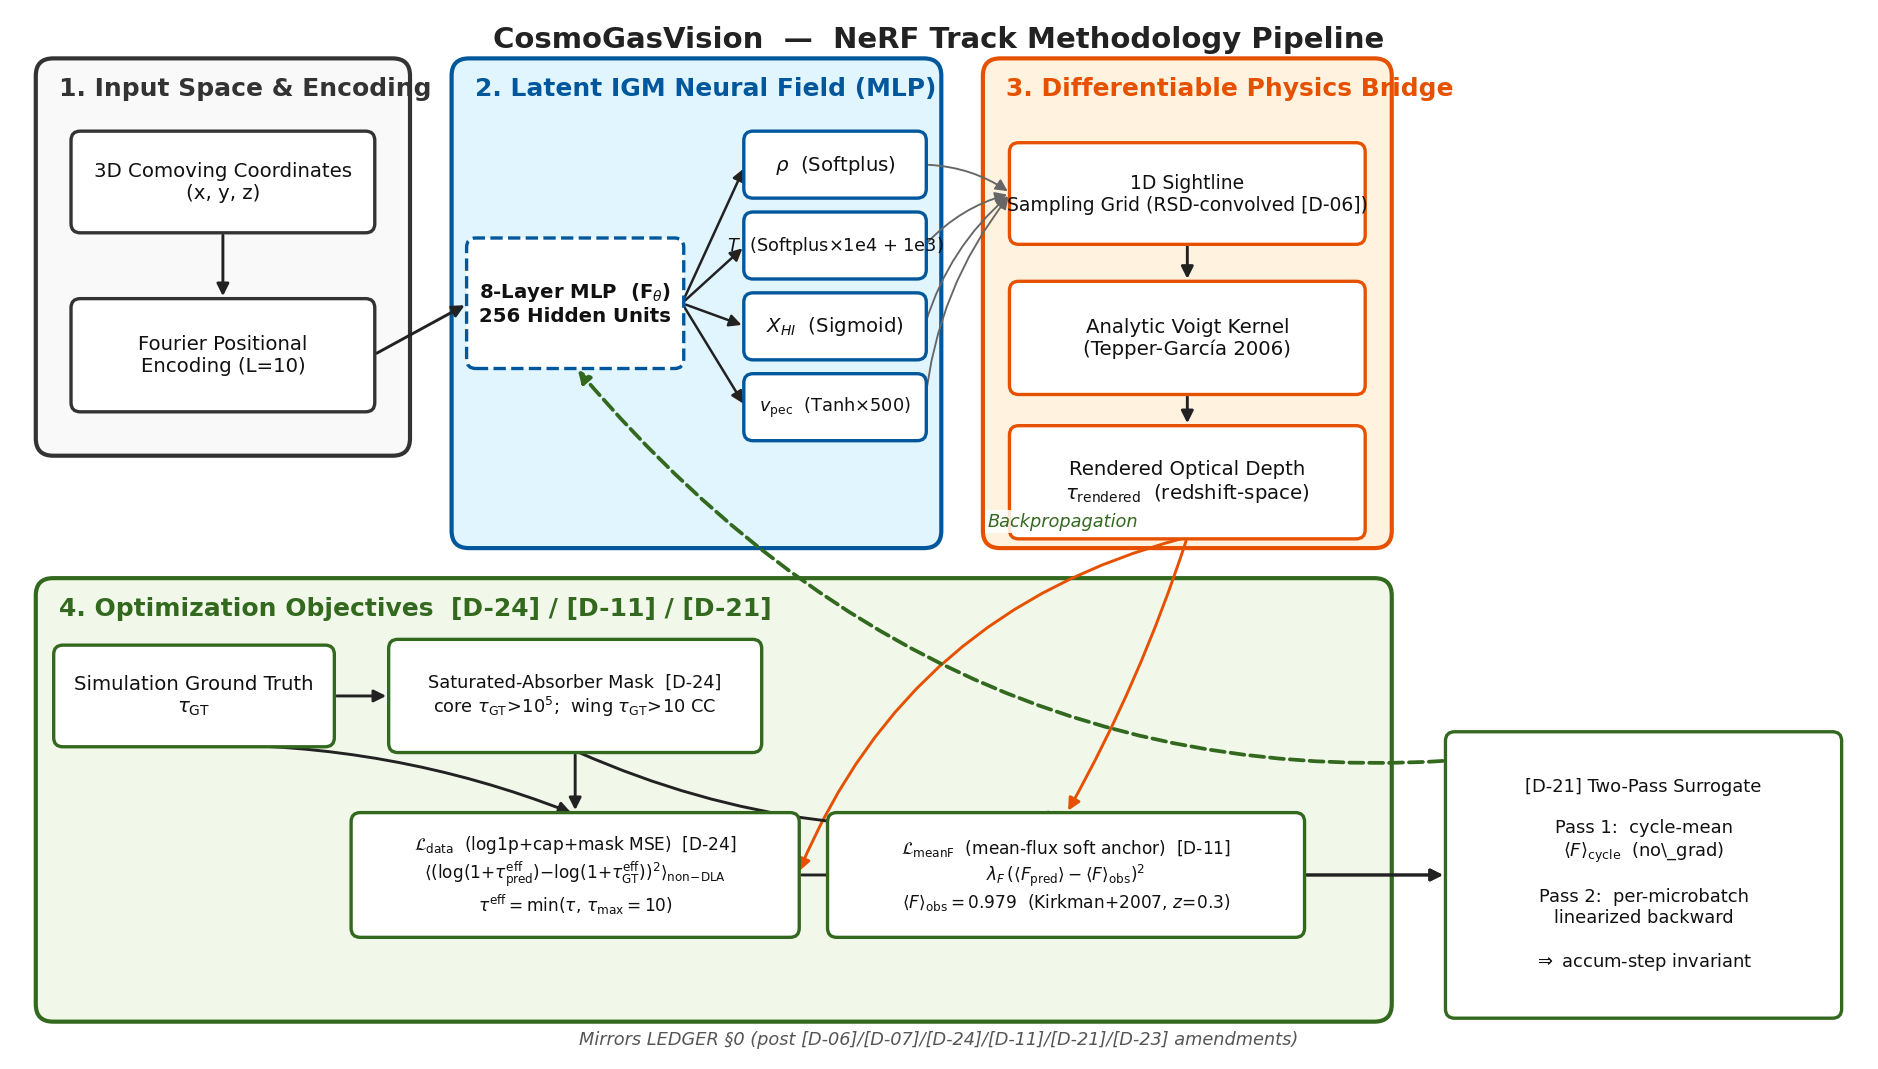
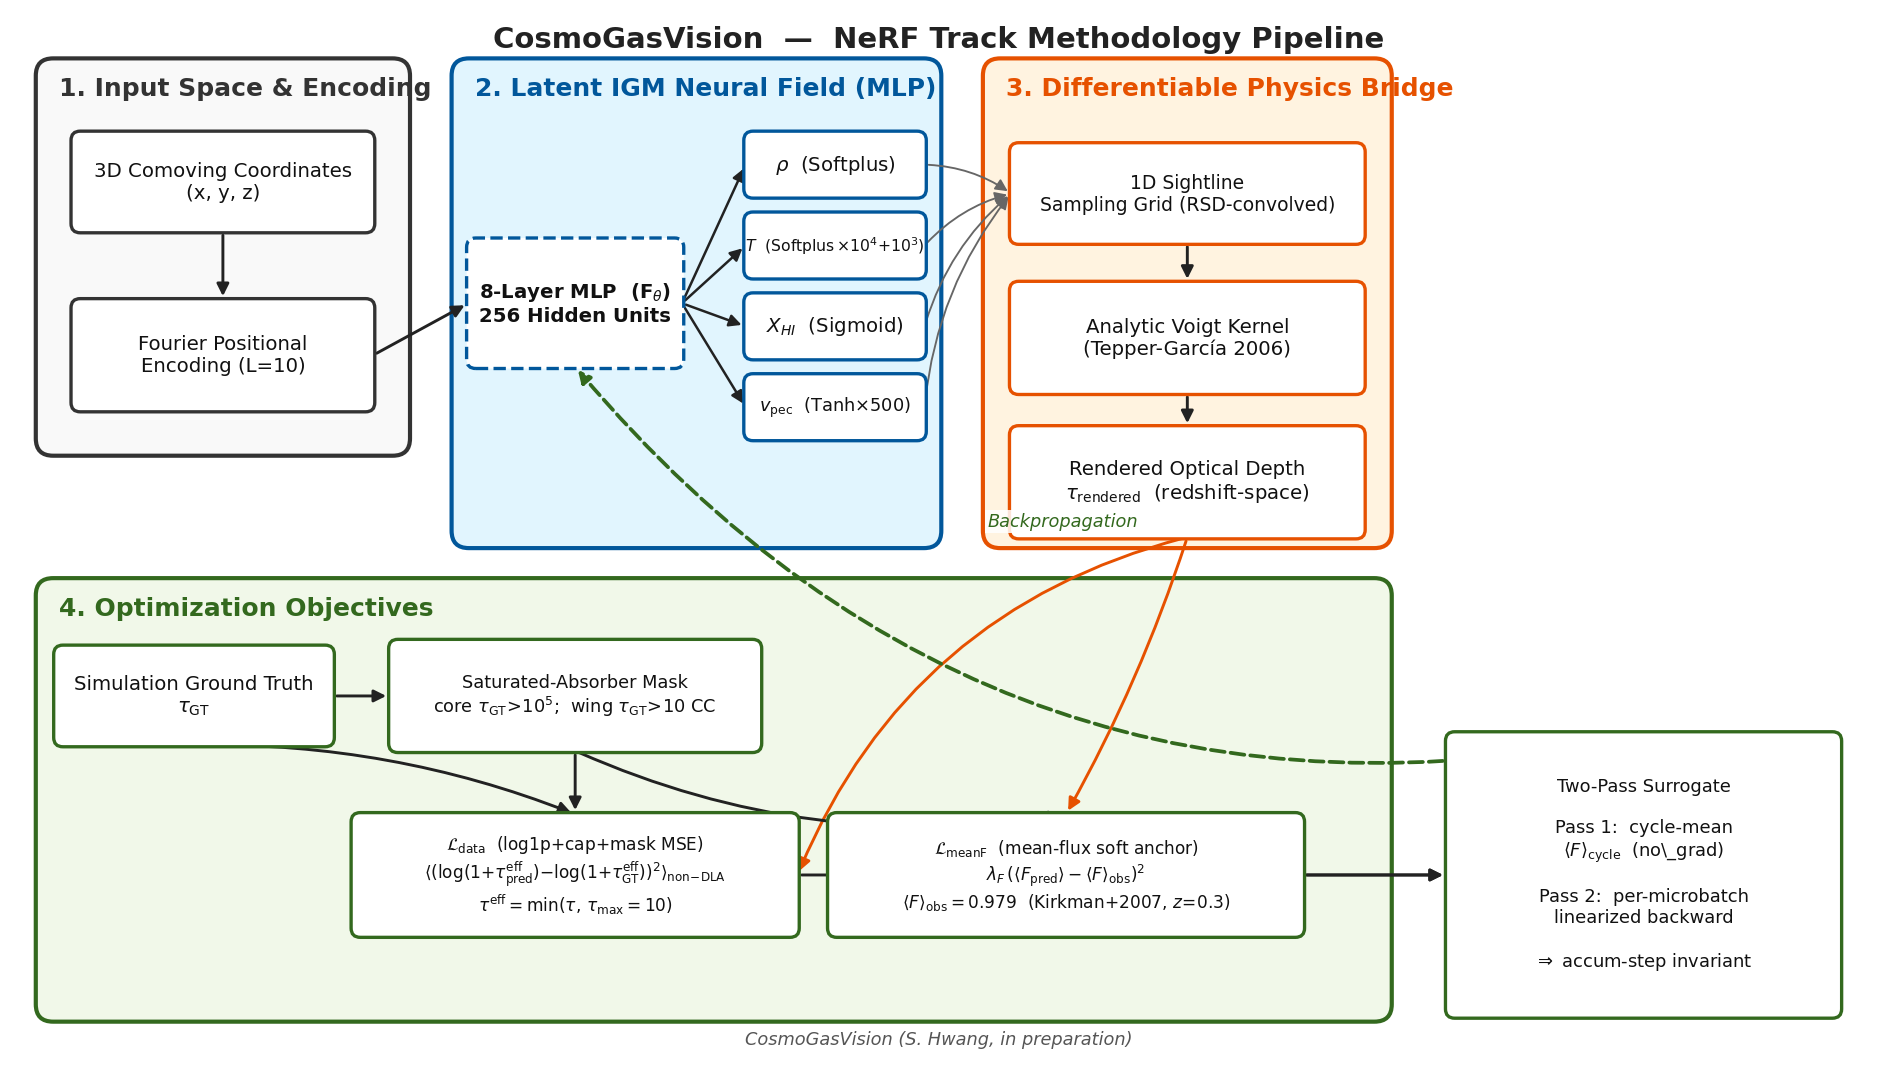
chore(external-hygiene): scrub internal [D-XX]/LEDGER identifiers from paper prose + figures + add guardrails
User directive 2026-07-11: internal LEDGER decision-log identifiers were leaking
onto external-facing surfaces (the paper a reviewer reads, and the selements
website). Fixed the instances and the root cause.

Scrubbed (external-facing):
- Paper prose: 9 [D-XX] tags removed from compiled atoms (abstract, method,
  experiments, next-steps) + 2 raw "Juno job 221335" HPC IDs. Tags translated to
  descriptive prose ("the log-space loss", "the third gate", "the 10% gate").
- Figures: make_method_pipeline_fig.py (7 rendered [D-XX] labels + "Mirrors
  LEDGER" footer) and d73_make_closeout_figures.py (K2 title [D-24], xi
  annotation [D-13]) de-internalized; all three paper figures regenerated clean.
- Also fixed the temperature node overflowing its box (1e4+1e3 -> 10^4+10^3,
  fontsize 8.5->7.5).

Root cause (guardrails, so it does not recur):
- .claude/agents/latex-author.md: added binding "no internal identifiers in
  external prose" rule; ALSO fixed the agent's own worked-example caption which
  used [D-13] and seeded the pattern.
- .claude/agents/support-researcher.md: added publication-figure hygiene rule
  (no [D-XX]/LEDGER on figure ART; publication variant required).
- .claude/skills/data-export/SKILL.md: added internal-identifier scrub gate +
  anti-pattern (verify the figure ART, not just the filename).

Still owed (flagged, needs descriptive substitution, not blind deletion):
pub-t1 (9x) and cost-survey (9x) run/phase codenames remain in the atoms.
[…]

diff --git a/scripts/make_method_pipeline_fig.py b/scripts/make_method_pipeline_fig.py
@@ -139,8 +139,8 @@ def build():
     rho = add_node(ax, 7.10, 7.70, 1.55, 0.55,
                    r"$\rho$  (Softplus)", "neural")
     temp = add_node(ax, 7.10, 7.00, 1.55, 0.55,
-                    r"$T$  (Softplus$\times$1e4 + 1e3)",
-                    "neural", fontsize=8.5)
+                    r"$T$  (Softplus$\,{\times}10^{4}{+}10^{3}$)",
+                    "neural", fontsize=7.5)
     xhi = add_node(ax, 7.10, 6.30, 1.55, 0.55,
                    r"$X_{HI}$  (Sigmoid)", "neural")
     vpec = add_node(ax, 7.10, 5.60, 1.55, 0.55,
@@ -158,7 +158,7 @@ def build():
                  "3. Differentiable Physics Bridge", "physics")
     sightlines = add_node(
         ax, 10.15, 7.45, 3.05, 0.85,
-        "1D Sightline\nSampling Grid (RSD-convolved [D-06])",
+        "1D Sightline\nSampling Grid (RSD-convolved)",
         "physics", fontsize=9,
     )
     voigt = add_node(
@@ -183,7 +183,7 @@ def build():
 
     # ===== Subgraph 4: Optimization Objectives =============================
     add_subgraph(ax, 0.20, 0.30, 11.70, 3.80,
-                 "4. Optimization Objectives  [D-24] / [D-11] / [D-21]",
+                 "4. Optimization Objectives",
                  "supvis")
 
     # ground truth on the left
@@ -195,7 +195,7 @@ def build():
     # mask
     mask = add_node(
         ax, 4.85, 3.10, 3.20, 0.95,
-        "Saturated-Absorber Mask  [D-24]\n"
+        "Saturated-Absorber Mask\n"
         r"core $\tau_{\rm GT}\!>\!10^{5}$;  wing $\tau_{\rm GT}\!>\!10$ CC",
         "supvis", fontsize=8.5,
     )
@@ -204,7 +204,7 @@ def build():
     # L_data
     l_data = add_node(
         ax, 4.85, 1.55, 3.85, 1.05,
-        r"$\mathcal{L}_{\rm data}$  (log1p+cap+mask MSE)  [D-24]"
+        r"$\mathcal{L}_{\rm data}$  (log1p+cap+mask MSE)"
         "\n"
         r"$\langle (\log(1{+}\tau^{\rm eff}_{\rm pred}){-}\log(1{+}\tau^{\rm eff}_{\rm GT}))^{2}\rangle_{\rm non\!-\!DLA}$"
         "\n"
@@ -214,7 +214,7 @@ def build():
     # L_meanF
     l_meanf = add_node(
         ax, 9.10, 1.55, 4.10, 1.05,
-        r"$\mathcal{L}_{\rm meanF}$  (mean-flux soft anchor)  [D-11]"
+        r"$\mathcal{L}_{\rm meanF}$  (mean-flux soft anchor)"
         "\n"
         r"$\lambda_{F}\,(\langle F_{\rm pred}\rangle - \langle F\rangle_{\rm obs})^{2}$"
         "\n"
@@ -234,7 +234,7 @@ def build():
     # Two-pass surrogate
     twopass = add_node(
         ax, 14.10, 1.55, 3.40, 2.45,
-        "[D-21] Two-Pass Surrogate\n\n"
+        "Two-Pass Surrogate\n\n"
         "Pass 1:  cycle-mean\n"
         r"$\langle F\rangle_{\rm cycle}$  (no\_grad)"
         "\n\n"
@@ -265,7 +265,7 @@ def build():
     )
     ax.text(
         8.0, 0.05,
-        "Mirrors LEDGER §0 (post [D-06]/[D-07]/[D-24]/[D-11]/[D-21]/[D-23] amendments)",
+        "CosmoGasVision (S. Hwang, in preparation)",
         ha="center", va="bottom", fontsize=8.5,
         color="#555555", style="italic",
     )

diff --git a/papers/shared/sec/3_experiments_main.tex b/papers/shared/sec/3_experiments_main.tex
@@ -21,7 +21,7 @@ The Stage 2b cost-survey sweep ran the per-tier schedule across all four variant
 \label{sec:experiments:headline}
 Tab.~\ref{tab:headline-3gate} consolidates the structure-gate readout for the production MLP across the four Sherwood feedback variants at the corrected-anchor full publication schedule (\texttt{pub-t1}). Two of the three directly-evaluated gates fail. $P_F$ fails $4/4$ at $\PFfactorOverGateLo$--$\PFfactorOverGateHi\times$ the gate; the flux-PDF KS gate closes $3/4$ (bootstrap-robust; $P_2$ q84 $=\KSBootstrapQHiPtwo$ fails). Mean-flux closes $4/4$ at the seed=42 single-seed anchor, but the 5-seed sightline-level bootstrap CI overlaps the Kirkman+2007 anchor $[\AnchorMeanFLo, \AnchorMeanFHi]$ in only $2/4$ cells ($P_3$, $P_4$ marginal at q84). Training is single-seed (seed $=0$); KS and $\langle F_{\rm pred}\rangle$ carry 5-seed sightline-level bootstrap CIs ($K=\BootstrapK$ resamples per cell, prediction and truth-side seeds from independent PCG64 streams; anti-degeneracy audit PASS, suppl.), and $P_F$ is the seed=42 anchor.
 
-\textbf{Honest gap: the 3D $\xi$ gate was never evaluated on the MLP.} The third [D-13] gate, the 3D density cross-correlation, is a 3D estimator. The MLP is supervised on 1D flux and produces no 3D density cube, so it has no $\xi$-of-record in the gate's defined form; the value shown in Tab.~\ref{tab:headline-3gate} is a 1D-along-ray density-correlation surrogate, measured on the cost-survey $P_1$ checkpoint and anchor-invariant by construction. The surrogate decouples from the 3D estimator under scale-dependent degradation, so we do not read it as the gate. The MLP therefore \emph{fails two of three directly-evaluated gates}; the third was never evaluated on the MLP. The 3D structure result the project can report comes from the explicit-grid probe of \S\ref{sec:experiments:gridprobe}, which produces a 3D cube.
+\textbf{Honest gap: the 3D $\xi$ gate was never evaluated on the MLP.} The third gate, the 3D density cross-correlation, is a 3D estimator. The MLP is supervised on 1D flux and produces no 3D density cube, so it has no $\xi$-of-record in the gate's defined form; the value shown in Tab.~\ref{tab:headline-3gate} is a 1D-along-ray density-correlation surrogate, measured on the cost-survey $P_1$ checkpoint and anchor-invariant by construction. The surrogate decouples from the 3D estimator under scale-dependent degradation, so we do not read it as the gate. The MLP therefore \emph{fails two of three directly-evaluated gates}; the third was never evaluated on the MLP. The 3D structure result the project can report comes from the explicit-grid probe of \S\ref{sec:experiments:gridprobe}, which produces a 3D cube.
 
 \textbf{Bootstrap-vs-seed=42 mean-flux divergence (symmetric-honesty disclosure).} The 5-seed bootstrap mean for $\langle F_{\rm pred}\rangle$ lies systematically below the seed=42 anchor by $\meanFseedDeviationRangeLo$--$\meanFseedDeviationRangeHi\sigma$ across all four cells (KS is not similarly biased; per-cell $\sigma$ in suppl.); we disclose this because the bootstrap softens rather than strengthens the single-seed reading, as our pre-registered honest-reporting protocol requires.
 
@@ -54,20 +54,20 @@ The structural-$P_F$ verdict states \emph{that} the gap is in second-order spect
 
 \subsection{Explicit-grid probe: the flux inverse problem is under-constrained}
 \label{sec:experiments:gridprobe}
-The MLP diagnosis of \S\ref{sec:experiments:cosmological-eval}--\S\ref{sec:experiments:tau-binned} localizes the residual but leaves one question open: is the saturation-band deficit a capacity limit of the implicit field, or a property of the inverse problem? We answer with the explicit-voxel-grid probe of \S\ref{sec:method:gridprobe} --- four free-per-voxel grids at $\GridG^3$, plain [D-24] flux supervision, one lever, at $P_1$, $z = 0.3$, $n_{\text{rays}} = 1024$ (Juno job 221335, $50{,}000$ steps).
+The MLP diagnosis of \S\ref{sec:experiments:cosmological-eval}--\S\ref{sec:experiments:tau-binned} localizes the residual but leaves one question open: is the saturation-band deficit a capacity limit of the implicit field, or a property of the inverse problem? We answer with the explicit-voxel-grid probe of \S\ref{sec:method:gridprobe} --- four free-per-voxel grids at $\GridG^3$, plain flux supervision, one lever, at $P_1$, $z = 0.3$, $n_{\text{rays}} = 1024$ ($50{,}000$ steps).
 
 \textbf{Trainability: the grid escapes the optimization collapse.} The grid's predicted-flux-power-band variance is $\VarPfBandRatio$, flat from step $5{,}000$ to $50{,}000$ --- about $1000\times$ over the collapse bar that retired the interventions of \S\ref{sec:nextsteps:pf}. The grid trains. Its variance sits at the same $\approx\!1.0$ level as the healthy MLP run, so it lands in the same saturation-band partial-underfit basin (Mode A) at the most-expressive parameterization; this is the representation-invariance of that basin landing, scoped to $P_F$.
 
-\textbf{Decisive evidence (K2): the grid beats the truth on flux.} We forward-model the \emph{true} sightline fields ($\rho, T, X_{HI}, v_{\text{pec}}$ at the ray points) through the same integrator under the exact [D-24] loss --- RSD applied identically, amplitude $\tau_{\text{amp}}$ free --- and minimize over $\tau_{\text{amp}}$. The true field scores data loss $\KTwoTruthLoss$; the grid scores $\KTwoGridLoss$, about $\KTwoMarginFactor\times$ better. The grid fits the observed flux better than the true field does through the same forward model. The margin is amplitude-flat (the true-field loss is flat over $\tau_{\text{amp}} \in [0.2, 4]$), which rules out the amplitude-calibration escape; the non-trivial content is the $\KTwoMarginFactor\times$ margin and that flatness, not the bare $\text{grid} < \text{truth}$ inequality. The margin includes integrator-induced slack: the $\KTwoTruthLoss$ floor is our FGPA-vs-radiative-transfer integrator error, not a physical residual, and the grid can exploit slack the truth cannot. The reading is that the flux through this forward model does not identify the true 3D field --- the $z = 0.3$ flux inverse problem is under-constrained. We do not separate problem-intrinsic from forward-model-induced under-determination at $\langle F\rangle = \MeanFluxZpThree$ (Fig.~\ref{fig:k2-degeneracy}).
+\textbf{Decisive evidence (K2): the grid beats the truth on flux.} We forward-model the \emph{true} sightline fields ($\rho, T, X_{HI}, v_{\text{pec}}$ at the ray points) through the same integrator under the same log-space loss --- RSD applied identically, amplitude $\tau_{\text{amp}}$ free --- and minimize over $\tau_{\text{amp}}$. The true field scores data loss $\KTwoTruthLoss$; the grid scores $\KTwoGridLoss$, about $\KTwoMarginFactor\times$ better. The grid fits the observed flux better than the true field does through the same forward model. The margin is amplitude-flat (the true-field loss is flat over $\tau_{\text{amp}} \in [0.2, 4]$), which rules out the amplitude-calibration escape; the non-trivial content is the $\KTwoMarginFactor\times$ margin and that flatness, not the bare $\text{grid} < \text{truth}$ inequality. The margin includes integrator-induced slack: the $\KTwoTruthLoss$ floor is our FGPA-vs-radiative-transfer integrator error, not a physical residual, and the grid can exploit slack the truth cannot. The reading is that the flux through this forward model does not identify the true 3D field --- the $z = 0.3$ flux inverse problem is under-constrained. We do not separate problem-intrinsic from forward-model-induced under-determination at $\langle F\rangle = \MeanFluxZpThree$ (Fig.~\ref{fig:k2-degeneracy}).
 
 \begin{figure}[t]
     \centering
     \includegraphics[width=0.84\linewidth]{figures/d73_k2_truth_vs_grid.png}
-    \caption{\textbf{K2 degeneracy ($z{=}0.3$, $P_1$, $G{=}192$, plain-[D-24], Juno job 221335).} The true sightline fields forward-modeled through the same integrator (free $\tau_{\text{amp}}$) score flux data loss $\KTwoTruthLoss$, flat over $\tau_{\text{amp}}\in[0.2,4]$ (shaded); the trained grid scores $\KTwoGridLoss$ (dashed), about $\KTwoMarginFactor\times$ lower. \emph{Verdict:} the grid fits the flux better than the true field does, so the flux optimum does not identify the true 3D field --- the inverse problem is under-constrained under this forward model. The amplitude-flatness rules out a calibration escape.}
+    \caption{\textbf{K2 degeneracy ($z{=}0.3$, $P_1$, $G{=}192$, log-space flux loss).} The true sightline fields forward-modeled through the same integrator (free $\tau_{\text{amp}}$) score flux data loss $\KTwoTruthLoss$, flat over $\tau_{\text{amp}}\in[0.2,4]$ (shaded); the trained grid scores $\KTwoGridLoss$ (dashed), about $\KTwoMarginFactor\times$ lower. \emph{Verdict:} the grid fits the flux better than the true field does, so the flux optimum does not identify the true 3D field --- the inverse problem is under-constrained under this forward model. The amplitude-flatness rules out a calibration escape.}
     \label{fig:k2-degeneracy}
 \end{figure}
 
-\textbf{The grid closes the flux-power gate the MLP failed.} Measured directly on the trained grid (same \texttt{compute\_p\_flux} convention as the gate), the grid's $|\Delta P_F/P_F|$ band-mean over $k_\parallel \in [10^{-2.5}, 10^{-1.5}]$ s/km is $\PFresidGrid$ --- a \emph{PASS} of the $10\%$ [D-13] gate, against the production MLP's $\PFresidGridBaseline$ FAIL.\footnote{The MLP baseline is the $n_{\text{rays}}=64$ \texttt{pub-t1} anchor and the grid is $n_{\text{rays}}=1024$; same estimator convention and the same $10\%$ gate, so the PASS/FAIL verdicts are directly comparable, but the residual magnitudes are not a controlled same-config contrast.} So the explicit field does close the scalar flux-power statistic the implicit MLP could not --- yet, as the cross-correlation below shows, it does not recover the 3D field. This is the sharp form of the under-constraint: the grid passes \emph{both} flux gates (band variance and power spectrum) and beats truth on flux loss, while the 3D structure stays wrong.
+\textbf{The grid closes the flux-power gate the MLP failed.} Measured directly on the trained grid (same \texttt{compute\_p\_flux} convention as the gate), the grid's $|\Delta P_F/P_F|$ band-mean over $k_\parallel \in [10^{-2.5}, 10^{-1.5}]$ s/km is $\PFresidGrid$ --- a \emph{PASS} of the $10\%$ gate, against the production MLP's $\PFresidGridBaseline$ FAIL.\footnote{The MLP baseline is the $n_{\text{rays}}=64$ \texttt{pub-t1} anchor and the grid is $n_{\text{rays}}=1024$; same estimator convention and the same $10\%$ gate, so the PASS/FAIL verdicts are directly comparable, but the residual magnitudes are not a controlled same-config contrast.} So the explicit field does close the scalar flux-power statistic the implicit MLP could not --- yet, as the cross-correlation below shows, it does not recover the 3D field. This is the sharp form of the under-constraint: the grid passes \emph{both} flux gates (band variance and power spectrum) and beats truth on flux loss, while the 3D structure stays wrong.
 
 \textbf{Supporting evidence: weak 3D structure, ceiling-relative.} The grid's 3D density cross-correlation at $r = 2\,h^{-1}$ Mpc is $\XiGrid$. The $\GateXi$ acceptance bar is demoted on two grounds, both confirmed first-hand. First, the estimator returns a cross-correlation function that decays with $r$: truth-vs-truth scores $\XiCeiling$ at $r = 2\,h^{-1}$ Mpc, not $\approx\!1.0$, so no field can pass $\GateXi$ and the ``$\XiGrid$ vs.\ $\GateXi$'' reading is invalid. Read ceiling-relative, the grid recovers $\XiCeilingFraction$ of the field's own achievable $r = 2\,h^{-1}$ Mpc autocorrelation and sits below truth-plus-100\%-noise ($\XiTruthNoiseHundred$) --- weak structure recovery. Second, a real-space-cube-vs-redshift-space-flux frame mismatch confounds $\xi(r = 2)$: the estimator scores a real-space cube against real-space truth while supervision is redshift-space flux with no RSD remap, and at $z = 0.3$ the displacement is $\Delta\chi_{\text{rms}} = \FrameDeltaChiRms$, $\Delta\chi_{\text{p95}} = \FrameDeltaChiPNF\,h^{-1}$ Mpc, comparable to the $r = 2\,h^{-1}$ Mpc gate scale. The mismatch depresses $\xi(r = 2)$ independent of reconstruction quality, on both this neural number and the idealized Wiener baseline (lower bound $\WienerXiLowerBound$, optimum un-pinned). $\xi$ is therefore supporting, not load-bearing; K2 carries the close. A corrected per-lag coefficient is banked as future work (\S\ref{sec:nextsteps}). Fig.~\ref{fig:xi-ceiling} shows the $\xi(r)$ profiles ceiling-relative.
 
@@ -78,7 +78,7 @@ The MLP diagnosis of \S\ref{sec:experiments:cosmological-eval}--\S\ref{sec:exper
     \label{fig:xi-ceiling}
 \end{figure}
 
-\textbf{Reading.} At $z = 0.3$ ($P_1$), a maximal-capacity-within-this-study free-per-voxel field ($\GridG^3$), trained under the production flux supervision, closes the [D-13] flux-power gate the production MLP failed ($|\Delta P_F/P_F| = \PFresidGrid$ vs.\ $\PFresidGridBaseline$, PASS vs.\ FAIL) and fits the observed flux about $\KTwoMarginFactor\times$ better than the true field does through the same forward model ($\KTwoGridLoss$ vs.\ $\KTwoTruthLoss$), yet recovers only weak 3D structure. Escaping the optimization collapse is necessary but not sufficient: the flux through this integrator --- even when it passes the community flux-power gate --- does not determine the 3D field. We make no claim beyond $z = 0.3$.
+\textbf{Reading.} At $z = 0.3$ ($P_1$), a maximal-capacity-within-this-study free-per-voxel field ($\GridG^3$), trained under the production flux supervision, closes the flux-power gate the production MLP failed ($|\Delta P_F/P_F| = \PFresidGrid$ vs.\ $\PFresidGridBaseline$, PASS vs.\ FAIL) and fits the observed flux about $\KTwoMarginFactor\times$ better than the true field does through the same forward model ($\KTwoGridLoss$ vs.\ $\KTwoTruthLoss$), yet recovers only weak 3D structure. Escaping the optimization collapse is necessary but not sufficient: the flux through this integrator --- even when it passes the community flux-power gate --- does not determine the 3D field. We make no claim beyond $z = 0.3$.
 
 \subsection{Substrate-discriminability probe at the reconstruction scale}
 \label{sec:experiments:substrate-probe}

diff --git a/scripts/d73_make_closeout_figures.py b/scripts/d73_make_closeout_figures.py
@@ -87,7 +87,7 @@ ax.set_xlabel(r"$\tau_{\mathrm{amp}}$ (free amplitude)")
 ax.set_ylabel(r"flux data loss $\mathcal{L}_{\mathrm{data}}$")
 ax.set_ylim(0, max(curve.max() * 1.15, 0.013))
 ax.set_title(r"K2: the grid fits flux better than the true field"
-             "\n" r"($z{=}0.3$, $P_1$, $G{=}192$, plain-[D-24])", fontsize=9)
+             "\n" r"($z{=}0.3$, $P_1$, $G{=}192$, log-space flux loss)", fontsize=9)
 ax.legend(fontsize=8, loc="upper right")
 fig.tight_layout()
 fig.savefig(f"{FIGDIR}/d73_k2_truth_vs_grid.png", dpi=200)
@@ -128,7 +128,7 @@ ax.plot(GRID_R, GRID_XI, color="#d62728", lw=2, marker="s", ms=3,
 ax.scatter([2.0], [wiener_xi2], color="#9467bd", zorder=5, s=40, marker="D",
            label=rf"Wiener lower bound ($\geq{wiener_xi2:g}$)")
 ax.axhline(0.6, color="black", ls=":", lw=1.5)
-ax.text(5.0, 0.615, r"demoted [D-13] $0.6$ gate --- unreachable (even truth$\times$truth $=0.03$)",
+ax.text(5.0, 0.615, r"demoted $0.6$ gate --- unreachable (even truth$\times$truth $=0.03$)",
         fontsize=7.5, va="bottom", ha="center")
 ax.axvline(2.0, color="gray", ls=":", lw=0.8, alpha=0.6)
 ax.set_xlabel(r"$r$ [$h^{-1}$ Mpc]")

diff --git a/papers/shared/sec/0_abstract.tex b/papers/shared/sec/0_abstract.tex
@@ -1,7 +1,7 @@
 \begin{abstract}
 Reconstructing the 3D distribution of the intergalactic medium (IGM) from sparse 1D Lyman-alpha forest sightlines is a sparse-view tomography problem with a physically derived forward operator. Classical voxel-grid methods such as TARDIS~\cite{horowitz2019tardis} and Wiener filtering~\cite{stark2015tomography} succeed at $z \approx 2$--$3$, where the forest is information-rich. We study the low-redshift regime at $z = 0.3$, where the mean transmitted flux is $\langle F\rangle = \MeanFluxZpThree$ ($\approx 2\%$ absorption) and the per-pixel signal is sparse.
 
-We present \emph{CosmoGasVision}, a continuous neural field $F_\theta:\mathbf{x} \to (\rho, T, X_{HI}, v_{\text{pec}})$ optimized end-to-end against a differentiable Lyman-alpha optical-depth integrator. The integrator implements the Tepper-Garc\'ia~\cite{tepper2006voigt} analytic Voigt-Hjerting kernel with full redshift-space-distortion (RSD) convolution and a learnable amplitude, and supervises the field on 1D flux through the [D-24] log-space loss with a mean-flux anchor at $\langle F\rangle_{\text{obs}}(z=0.3) = \AnchorMeanF$~\cite{kirkman2007}.
+We present \emph{CosmoGasVision}, a continuous neural field $F_\theta:\mathbf{x} \to (\rho, T, X_{HI}, v_{\text{pec}})$ optimized end-to-end against a differentiable Lyman-alpha optical-depth integrator. The integrator implements the Tepper-Garc\'ia~\cite{tepper2006voigt} analytic Voigt-Hjerting kernel with full redshift-space-distortion (RSD) convolution and a learnable amplitude, and supervises the field on 1D flux through the log-space loss with a mean-flux anchor at $\langle F\rangle_{\text{obs}}(z=0.3) = \AnchorMeanF$~\cite{kirkman2007}.
 
 The contribution is a characterization of the optimization and identifiability wall this method class hits at $z = 0.3$. The decisive evidence is an explicit-voxel-grid probe: a maximal-capacity-within-this-study free-per-voxel field ($\GridG^3$), trained under the same flux supervision through the same forward model, closes the flux-power gate the production MLP failed ($|\Delta P_F/P_F| = \PFresidGrid$ vs.\ $\PFresidGridBaseline$) and fits the observed flux about $\KTwoMarginFactor\times$ better than the \emph{true} field does (data loss $\KTwoGridLoss$ vs.\ $\KTwoTruthLoss$, free amplitude on both), yet recovers only weak 3D structure. The grid trains --- its predicted-flux-power-band variance is $\VarPfBandRatio$, flat over training --- so it escapes the optimization collapse that retired earlier interventions, but its density cross-correlation at $r = 2\,h^{-1}$ Mpc reaches only $\XiCeilingFraction$ of the field's own achievable ceiling. The reading is that the $z = 0.3$ flux inverse problem, under this forward model, is under-constrained: escaping the optimization collapse is necessary but not sufficient, because the flux through this integrator does not determine the 3D field. We do not separate problem-intrinsic from forward-model-induced under-determination, and we make no claim beyond $z = 0.3$. The contributions are (i) a continuous-neural-field formulation of Ly$\alpha$ tomography coupled to a differentiable Voigt integrator; (ii) a falsification-disciplined methodology of pre-committed gates and degeneracy-aware counterfactuals, demonstrated across $\NumInterventions$ retired interventions; and (iii) the explicit-grid degeneracy measurement that localizes and bounds the failure mode at this regime.
 \end{abstract}

diff --git a/papers/shared/sec/2_method_main.tex b/papers/shared/sec/2_method_main.tex
@@ -25,7 +25,7 @@ where $x_{\text{src,obs}} = (v_{\text{obs}} - v_{\text{src}} - v_{\text{pec},\te
 \begin{equation}
 H(a, x) \approx e^{-x^2} - \frac{a}{\sqrt{\pi} x^2} \big[ e^{-2x^2} (4x^4 + 7x^2 + 4 + 1.5x^{-2}) - 1.5x^{-2} - 1 \big]
 \end{equation}
-allowing loss gradients to propagate back through the damping wings to the MLP parameters $\theta$. The integrator was audited end-to-end after a factor-12.9 damping-coefficient fix ([D-57]); the explicit-grid probe of \S\ref{sec:method:gridprobe} is supervised through the same forward model.
+allowing loss gradients to propagate back through the damping wings to the MLP parameters $\theta$. The integrator was audited end-to-end after a factor-12.9 damping-coefficient fix; the explicit-grid probe of \S\ref{sec:method:gridprobe} is supervised through the same forward model.
 
 \subsection{Lyman-alpha Forest Loss: Saturated-Absorber Mask, Cap, and Log-Space Supervision}
 \label{sec:method:loss}

diff --git a/papers/shared/sec/4_next_steps_main.tex b/papers/shared/sec/4_next_steps_main.tex
@@ -43,4 +43,4 @@ The four interventions on loss, regularizer, architecture-input, and conditionin
 
 \subsection{Scope and what we do not open}
 \label{sec:nextsteps:scope}
-The result is scoped to the Sherwood Suite at $z = 0.3$, $P_1$. We do not claim neural IGM tomography is impossible: at $z \approx 2$--$3$ the forest is information-rich and CLAMATO~\cite{lee2018clamato} and TARDIS~\cite{horowitz2019tardis} reconstruct 3D density from sparse skewers. The claim is narrower --- at $z = 0.3$, this method class hits a characterized under-constraint wall, and the wall's location is explained by the information content of the low-$z$ forest, not by a deficiency of the architecture. A scaling build-out (higher resolution, multi-physics) is not warranted, because the explicit-grid probe shows the bottleneck is information content, not capacity. We considered adopting a different autodiff engine (JAX) for such a build-out; with no build-out opened, the migration is not adopted ([D-74]). A scoped diagnostic spike --- porting the forward model plus one Hessian/Fisher diagnostic to harden the under-determination claim --- remains an option if elected, but is not committed and not in flight. The corrected per-lag $\xi$ coefficient $\xi_{\text{cross}}/\sqrt{\xi_{\hat\rho\hat\rho}\,\xi_{\rho\rho}}$ is banked as future work: it needs the grid cube and remains frame-mismatch-confounded (\S\ref{sec:experiments:gridprobe}). The substrate-discriminability probe (\S\ref{sec:experiments:substrate-probe}), which fell below its anti-degeneracy floor at the $\SubstrateProbeCropSize^3$ scale, likewise leaves substrate scale, alternative physical fields, and reconstructed-substrate evaluation as the load-bearing axes for any successor probe (suppl.).
+The result is scoped to the Sherwood Suite at $z = 0.3$, $P_1$. We do not claim neural IGM tomography is impossible: at $z \approx 2$--$3$ the forest is information-rich and CLAMATO~\cite{lee2018clamato} and TARDIS~\cite{horowitz2019tardis} reconstruct 3D density from sparse skewers. The claim is narrower --- at $z = 0.3$, this method class hits a characterized under-constraint wall, and the wall's location is explained by the information content of the low-$z$ forest, not by a deficiency of the architecture. A scaling build-out (higher resolution, multi-physics) is not warranted, because the explicit-grid probe shows the bottleneck is information content, not capacity. We considered adopting a different autodiff engine (JAX) for such a build-out; with no build-out opened, the migration is not adopted. A scoped diagnostic spike --- porting the forward model plus one Hessian/Fisher diagnostic to harden the under-determination claim --- remains an option if elected, but is not committed and not in flight. The corrected per-lag $\xi$ coefficient $\xi_{\text{cross}}/\sqrt{\xi_{\hat\rho\hat\rho}\,\xi_{\rho\rho}}$ is banked as future work: it needs the grid cube and remains frame-mismatch-confounded (\S\ref{sec:experiments:gridprobe}). The substrate-discriminability probe (\S\ref{sec:experiments:substrate-probe}), which fell below its anti-degeneracy floor at the $\SubstrateProbeCropSize^3$ scale, likewise leaves substrate scale, alternative physical fields, and reconstructed-substrate evaluation as the load-bearing axes for any successor probe (suppl.).

diff --git a/.claude/skills/data-export/SKILL.md b/.claude/skills/data-export/SKILL.md
@@ -99,6 +99,24 @@ Lead with the empirical observation; the honest framing wins on first pass
 stored P1 sightline, not a typical spectrum") still carries its honest selection
 caveat.
 
+## Internal-identifier scrub gate (ALL external exports — data AND figures)
+Every artifact leaving the project — CSV/JSON, provenance sidecar, **and any figure
+ART (its rendered labels, titles, axes, captions)** — MUST be free of the project's
+*internal* protocol identifiers before it ships. Barred on any consumer-facing surface:
+- LEDGER decision-log tags — `[D-XX]` (`[D-24]`, `[D-73]`, …).
+- R-rule codes (`R15`, `[D-37]-ext`) and sprint/run codenames (`pub-t1`, `Sprint-4`,
+  `T3`, `Rung-4`).
+- The literal word `LEDGER` / "Mirrors LEDGER §X".
+
+These are internal — they mean nothing to an external reader and expose private
+process. Caveats may cite a decision's **content** ("the mean-flux anchor", not "the
+[D-11] anchor"); the D-XX provenance belongs in the sidecar's internal-lineage field,
+never in consumer copy or on the figure. **For figures, verify the rendered image, not
+just the filename**: grep the generator for `D-[0-9]`/`LEDGER`, and if it hits, ship a
+publication variant (`support-researcher` owns the stripped-label render) — never the
+internal LEDGER-mirror diagram. *(Added 2026-07-11 after the `method_pipeline` figure
+shipped to selements-website carrying `[D-06]/[D-11]/[D-24]` labels.)*
+
 ## How to service a new <consumer> request
 1. **Enumerate the source data this session** (data-engineer mandatory trigger):
    `ls -la` the source dir; confirm path, shape, dtype, finiteness, physical
@@ -116,7 +134,10 @@ caveat.
 8. **Add tests** to `tests/test_export.py` (synthetic fixtures for write/validate
    logic; mark any real-`Sherwood/` test `@pytest.mark.slow`).
 9. If the export is claim-bearing, run it past the **honest-reporting
-   verb-ceiling gate** above before shipping copy.
+   verb-ceiling gate** above before shipping copy. For **every** export (claim-bearing
+   or not, data or figure), also run the **internal-identifier scrub gate** — no
+   `[D-XX]` / `LEDGER` / sprint-codename on any consumer-facing surface, figure ART
+   included.
 
 ## Registered consumers
 - **selements-website** — curates project sources across the author's projects;
@@ -136,5 +157,8 @@ caveat.
 - Comment lines in a CSV destined for a comment-unaware downstream parser.
 - A claim-bearing caveat that exceeds the honest-reporting verb-ceiling
   (e.g. "reconstructs the 3D IGM", "fails all three gates").
+- Shipping an artifact **or figure** that renders internal identifiers
+  (`[D-XX]`, `LEDGER`, "Mirrors LEDGER §X", sprint/run codenames) to an external
+  consumer — verify the figure ART, not just its filename (internal-identifier scrub gate).
 - Forgetting the MANIFEST row (orphan export, no lineage).
 - Committing export work on `exp/<name>` or `main` instead of `service/data-export`.

diff --git a/.claude/agents/latex-author.md b/.claude/agents/latex-author.md
@@ -32,6 +32,7 @@ Per [D-45] master-source architecture (HEAD ≥ `2b6b332`), the paper tree is:
 - **No speculative results.** Stage 2b is ⏳ pending — you must not write past tense ("we achieved", "results show") for it. Use placeholders.
 - **No fabricated citations.** If you don't have a real reference for a claim, either drop the claim, hedge to community knowledge, or insert a `\todo{cite needed: <topic>}` for the user.
 - **No AI-generated images.** Diagrams are TikZ; figures come from `support-researcher` (real `.png/.pdf` from real runs).
+- **No internal identifiers in external-facing prose (binding, user directive 2026-07-11).** Compiled paper prose — any atom reachable from a venue `main.tex` (`0_abstract`, `1_intro`, the `*_main.tex` cut atoms, `5_related_work`, and `sec_extended/*` when a longer venue compiles it) — is read by external reviewers. It MUST NOT contain internal LEDGER decision-log tags (`[D-XX]`), R-rule codes (`R15`, `[D-37]-ext`), sprint/run codenames (`pub-t1`, `Sprint-4`, `T3`), or the literal word `LEDGER`. These are the *internal* protocol; your mandate is to **translate** a decision into descriptive prose or a proper `\cite` — cite the decision's **content**, never its number. Provenance tags live in the LEDGER and in `%`-comments only, never in rendered text. (This applies to figure captions too — a caption is rendered prose.)
 
 ## Iteration protocol
 
@@ -91,7 +92,7 @@ You are the **owner of the visual narrative** of the paper. The reader's path th
 
 **A reader should understand the paper's full argument by reading only the figures, tables, and their captions** — without reading any prose. This is a load-bearing PI quality bar; apply it on every paper edit. Three concrete consequences:
 
-1. **Captions carry the experimental setup, the headline number, and the verdict.** Not a description of what the axes are. A caption that says "Reconstruction $P_F$ vs.\ truth" is shape-only and fails the test. The same caption with "...at fiducial $P_1$, $z=0.3$, $n_{\text{rays}}=1024$, T3 cost-survey checkpoint (step 10{,}000); mean fractional residual in the [D-13] inertial range $k_\parallel \in [10^{-2.5}, 10^{-1.5}]$ s/km is $\mathbf{31.0\%}$ (gate $< 10\%$ at publication-class)" passes — anyone who only reads the caption knows what was done, what came out, how it compares to the bar, and whether to read further.
+1. **Captions carry the experimental setup, the headline number, and the verdict.** Not a description of what the axes are. A caption that says "Reconstruction $P_F$ vs.\ truth" is shape-only and fails the test. The same caption with "...at fiducial $P_1$, $z=0.3$, $n_{\text{rays}}=1024$, T3 cost-survey checkpoint (step 10{,}000); mean fractional residual in the inertial range $k_\parallel \in [10^{-2.5}, 10^{-1.5}]$ s/km is $\mathbf{31.0\%}$ (gate $< 10\%$ at publication-class)" passes — anyone who only reads the caption knows what was done, what came out, how it compares to the bar, and whether to read further.
 
 2. **Tables include a verdict column or a verdict in the caption.** A bare numeric table without "PASS" / "FAIL" / "deferred" markers, or a caption without the cross-reference to what the numbers should be compared against, fails. The reader who skips the prose must still see whether each row clears its own gate.
 

diff --git a/.claude/agents/support-researcher.md b/.claude/agents/support-researcher.md
@@ -18,5 +18,8 @@ You produce visualizations and quantitative comparisons.
 ## Constraint
 Generate figures **programmatically** (Matplotlib, Plotly, TikZ). Do not use AI image-generation tools — figures must be reproducible and scientifically precise.
 
+## Publication-figure hygiene — no internal identifiers (binding, user directive 2026-07-11)
+Any figure destined for a paper (`papers/`) or an external consumer (a `data-export` recipient, a public site) MUST NOT render internal identifiers in its labels, titles, axes, or caption: no LEDGER decision tags (`[D-XX]`), R-rule codes, sprint/run codenames (`pub-t1`, `Sprint-4`), or "Mirrors LEDGER §X". Those belong in the LEDGER and in internal diagnostic figures under `experiments/<name>/artifacts/`, never on a surface a reviewer or the public sees. If a generator was authored as an internal LEDGER-mirroring diagram (e.g. `scripts/make_method_pipeline_fig.py`, which prints `[D-06]/[D-11]/[D-21]/[D-24]`), it needs a **publication variant** — a stripped label set (or a `--publication` flag) — before its output ships to `papers/` or an export. The boundary is external-facing vs internal; scrub the external ones.
+
 ## Coordination
 The latex-author depends on your figures. Hand off DVC paths, not raw bytes — the paper references via path so the manuscript reflects the final project state.